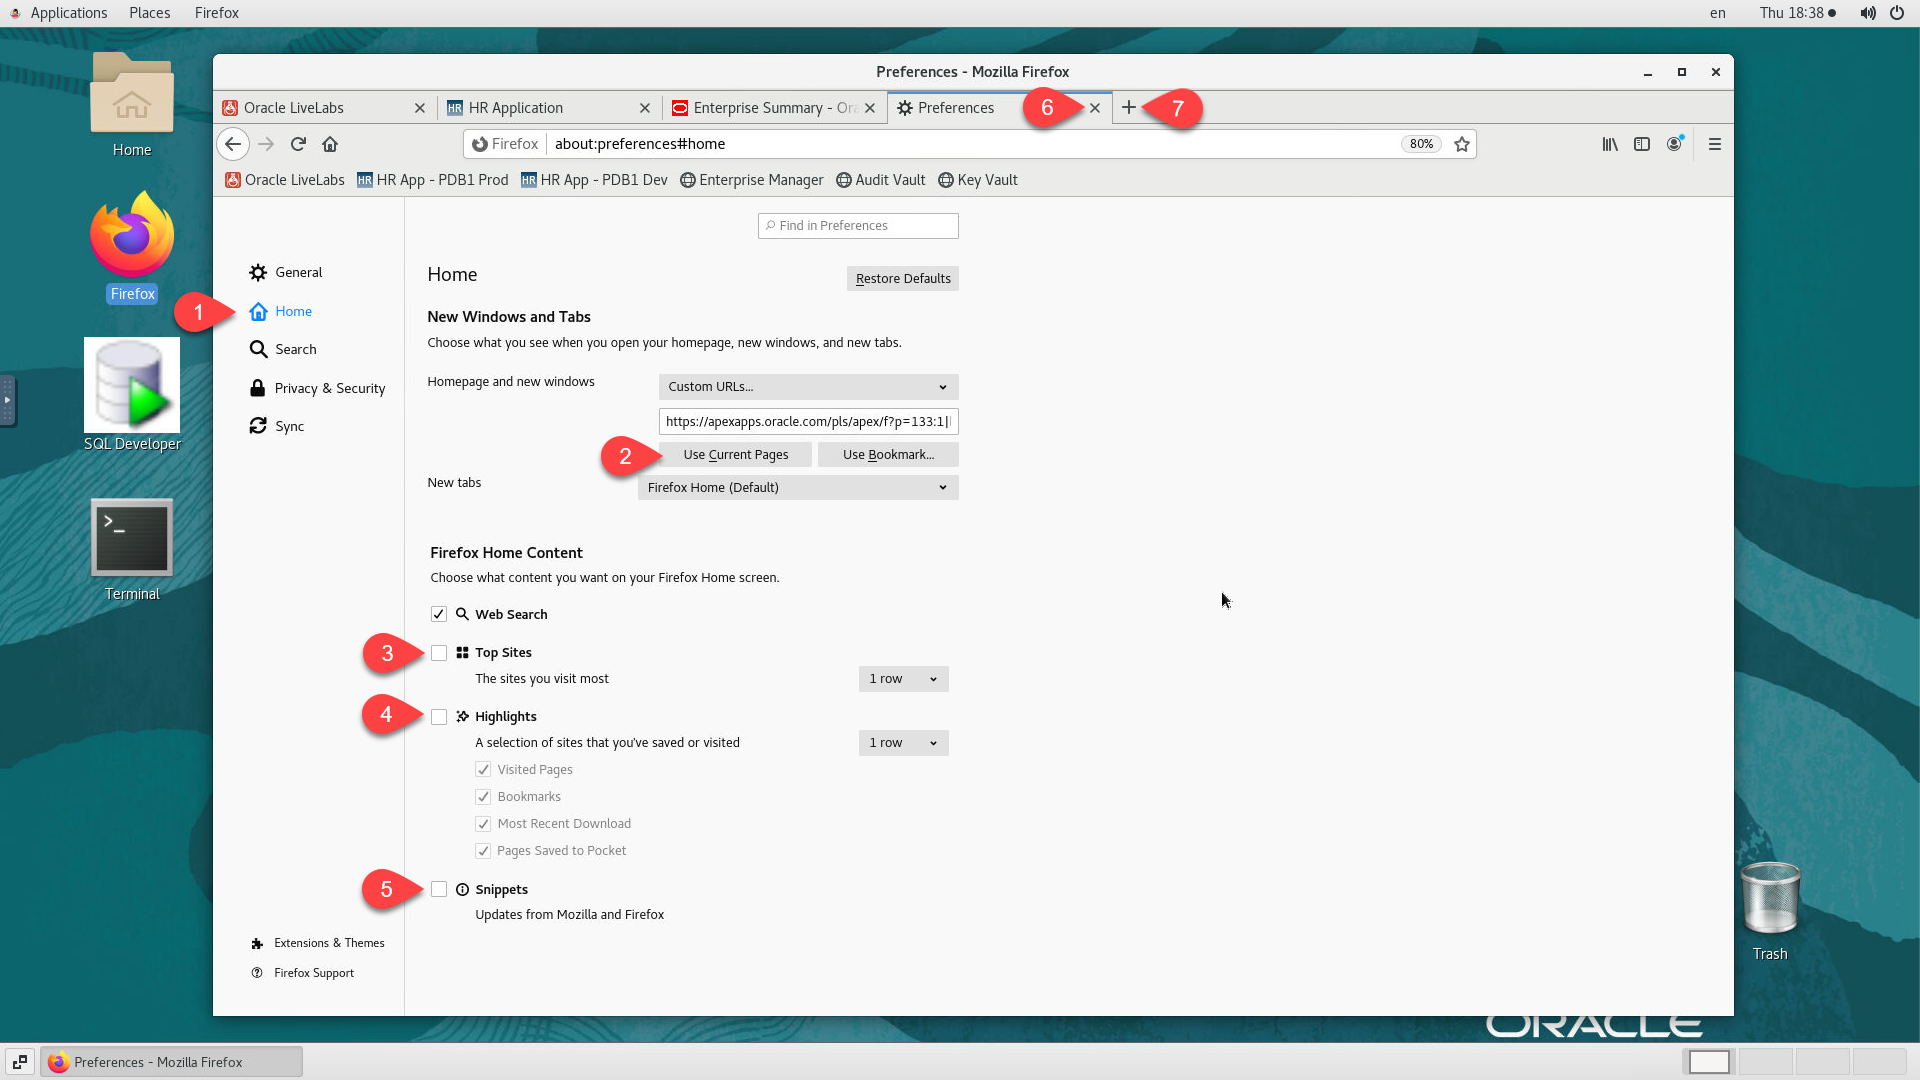
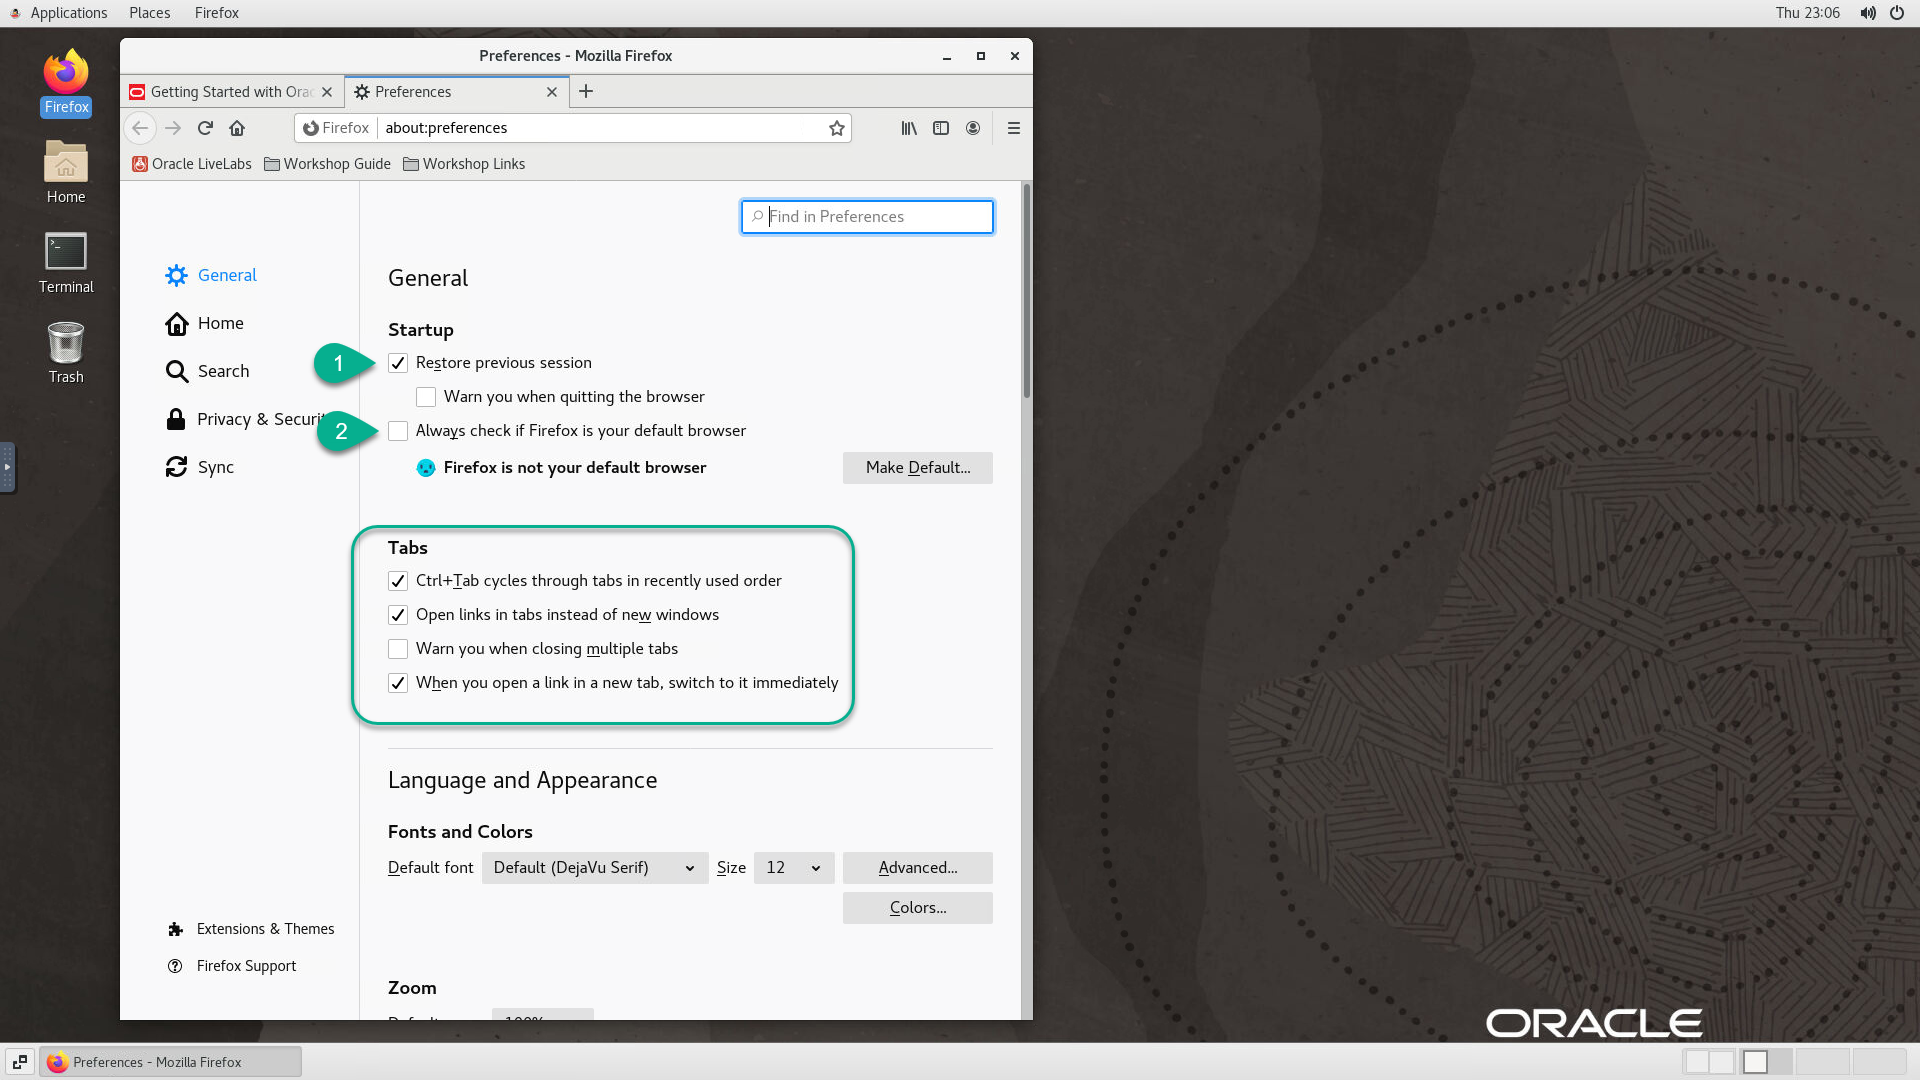
Update noVNC setup [Internal]

diff --git a/data-management-library/database/upgrade/19c/workshops/main/index.html b/data-management-library/database/upgrade/19c/workshops/main/index.html
@@ -1,0 +1,62 @@
+<!DOCTYPE html>
+<html lang="en">
+
+<head>
+    <meta charset="utf-8">
+    <meta http-equiv="X-UA-Compatible" content="IE=edge">
+    <meta name="viewport" content="width=device-width, initial-scale=1">
+    <meta name="description" content="Oracle LiveLabs gives you access to Oracle's products to run a wide variety of labs and workshops; allowing you to experience our best technology, live!">
+    <title>Oracle LiveLabs</title>
+
+    <script src="https://oracle.github.io/learning-library/common/redwood-hol/js/jquery-1.11.0.min.js"></script>
+    <script src="https://oracle.github.io/learning-library/common/redwood-hol/js/jquery-ui-1.10.4.custom.js"></script>
+    <script src="https://oracle.github.io/learning-library/common/redwood-hol/js/main.min.js"></script>
+
+    <link rel="stylesheet" href="https://oracle.github.io/learning-library/common/redwood-hol/css/style.min.css" />
+    <link rel="shortcut icon" href="https://oracle.github.io/learning-library/common/redwood-hol/img/favicon.ico" />
+</head>
+
+<body>
+    <header class="hol-Header" role="banner">
+        <div class="hol-Header-wrap">
+            <div class="hol-Header-logo"><span>Oracle LiveLabs</span></div>
+            <a href="https://bit.ly/golivelabs" target="_blank" id="livelabs" title="Oracle LiveLabs"></a>
+            <div class="hol-Header-actions">
+                <button id="openNav" class="hol-Header-button hol-Header-button--menu rightNav" aria-label="Open Menu"
+                    title="Open Menu">
+                    <span class="hol-Header-toggleIcon"></span>
+                </button>
+            </div>
+        </div>
+    </header>
+
+    <div id="container">
+        <div id="leftNav">
+            <div id="toc"></div>
+        </div>
+        <div id="contentBox">
+            <main class="hol-Content" id="module-content"></main>
+        </div>
+    </div>
+
+      <footer class="hol-Footer">
+        <a class="hol-Footer-topLink" href="#top">Return to Top</a>
+        <div id="footer-banner"><div class="footer-row">
+          <div class="footer-content"><ul class="footer-links">
+              <li><a href="https://docs.oracle.com/pls/topic/lookup?ctx=en/legal&id=cpyr" target="_blank" aria-label="Open a new window to Oracle legal notices" data-lbl="copyright">© Oracle</a></li>
+              <li><a href="https://www.oracle.com/corporate/index.html" target="_blank" aria-label="Open a new window to learn more about oracle" data-lbl="about-oracle">About Oracle</a></li>
+              <li><a href="https://www.oracle.com/corporate/contact/" target="_blank" aria-label="Open a new window to contact oracle" data-lbl="contact-us">Contact Us</a></li>
+              <li class="footer-links-break"></li>
+              <li><a href="https://docs.oracle.com/en/browseall.html" target="_blank" aria-label="Open a new window to products a-z" data-lbl="products-a-z">Products A-Z</a></li>
+              <li><a href="https://www.oracle.com/legal/privacy/" target="_blank" aria-label="Open a new window to read more about Oracle terms of use and privacy" data-lbl="terms-of-use-and-privacy">Terms of Use & Privacy</a></li>
+              <li><a href="https://www.oracle.com/legal/privacy/privacy-policy.html#11" target="_blank" aria-label="Open a new window to read more about managing Oracle cookie preferences" data-lbl="cookie-preferences">Cookie Preferences</a></li>
+              <li><a href="https://www.oracle.com/legal/privacy/marketing-cloud-data-cloud-privacy-policy.html#adchoices" target="_blank" aria-label="Open a new window to ad choices" data-lbl="ad-choices">Ad Choices</a></li>
+              <li class="footer-links-break"></li><li class="last"><a href="https://docs.oracle.com/pls/topic/lookup?ctx=en/legal&id=cpyr" target="_blank" aria-label="Open a new window to Oracle legal notices" data-lbl="copyright">© Oracle</a></li>
+            </ul>
+          </div>
+        </div>
+      </div>
+    </footer>
+</body>
+
+</html>

diff --git a/sample-livelabs-templates/create-labs/labs/6-labs-setup-graphical-remote-desktop/6-labs-setup-graphical-remote-desktop.md b/sample-livelabs-templates/create-labs/labs/6-labs-setup-graphical-remote-desktop/6-labs-setup-graphical-remote-desktop.md
@@ -1,8 +1,8 @@
 # Setup Graphical Remote Desktop
 
 ## Introduction
-This lab will show you how to deploy and configure noVNC Graphical Remote Desktop on an Oracle Enterprise Linux (OEL) instance prior
-to capturing .
+This lab shows you how to deploy and configure noVNC Graphical Remote Desktop on an Oracle Enterprise Linux (OEL) instance prior
+to capturing the custom image.
 
 ### Objectives
 - Deploy NoVNC Remote Desktop
@@ -105,7 +105,7 @@ This lab assumes you have:
     echo "Updating VNC Service ..."
     cp /lib/systemd/system/vncserver@.service /etc/systemd/system/vncserver_\${appuser}@:1.service
     sed -i "s/<USER>/\${appuser}/g" /etc/systemd/system/vncserver_\${appuser}@:1.service
-    sed -i "s/After=syslog.target network.target/After=syslog.target network.target resetvncpwd.service/g" /etc/systemd/system/vncserver_\${appuser}@:1.service
+    sed -i "s/After=syslog.target network.target/After=syslog.target network.target resetvncpwd.service cloud-final.service/g" /etc/systemd/system/vncserver_\${appuser}@:1.service
 
     firewall-cmd --zone=public --permanent --add-service=vnc-server
     firewall-cmd --zone=public --permanent --add-port=5901/tcp
@@ -184,9 +184,9 @@ This lab assumes you have:
     echo ""
     echo "#================================================="
     echo "#"
-    echo "# http://`curl -s ident.me`:6080/index.html?resize=remote"      
+    echo "# http://`curl -s ident.me`:6080/vnc.html?resize=remote"      
     echo "# or"
-    echo "# http://`curl -s ident.me`:6080/index.html?password=LiveLabs.Rocks_99&resize=remote&autoconnect=true"      
+    echo "# http://`curl -s ident.me`:6080/vnc.html?password=LiveLabs.Rocks_99&resize=scale&quality=9&autoconnect=true"      
     echo "#================================================="
     echo ""
     EOF
@@ -289,37 +289,63 @@ LiveLabs compute instance are password-less and only accessible via SSH keys. As
 1. Launch your browser to the following URL
 
     ```
-    <copy>http://[your instance public-ip address]:6080/index.html?resize=remote</copy>
+    <copy>http://[your instance public-ip address]:6080/vnc.html?password=LiveLabs.Rocks_99&resize=scale&quality=9&autoconnect=true</copy>
     ```
 
-    ![](./images/novnc-login-1.png " ")
-
-
-2. Copy/Paste the Password below to login
+2. Follow steps in the screenshot below and run command provided below to resize desktop icons
 
     ```
-    <copy>LiveLabs.Rocks_99</copy>
+    <copy>
+    gsettings set org.gnome.nautilus.icon-view default-zoom-level small
+    </copy>
     ```
 
-    ![](./images/novnc-login-2.png " ")
+    ![](./images/novnc-resize-desktop-icons-1.png " ")
+    ![](./images/novnc-resize-desktop-icons-2.png " ")
 
-3. Navigate to "*Applications >> System Tools >> Settings*"
+3. From the same Terminal window, run the following command to open *Startup Programs* configuration
+
+    ```
+    <copy>
+    gsettings set org.gnome.nautilus.icon-view default-zoom-level small
+    </copy>
+    ```
+
+    ![](./images/novnc-startup-prog-1.png " ")
+
+4. Fill in the details as shown below and click *Add* to add *Firefox* to the list of applications to be started automatically on *VNC* Startup
+
+    ```
+    Name: <copy>Firefox Browser</copy>
+    ```
+
+    ```
+    Command: <copy>firefox</copy>
+    ```
+
+    ```
+    Comment: <copy>Launch Firefox on VNC Startup</copy>
+    ```
+
+    ![](./images/novnc-startup-prog-2.png " ")
+
+5. Navigate to "*Applications >> System Tools >> Settings*"
 
     ![](./images/system-settings.png " ")
 
-4. Click on "*Privacy*" and set **Screen Lock** to *Off*
+6. Click on "*Privacy*" and set **Screen Lock** to *Off*
 
     ![](./images/privacy-screen-lock.png " ")
 
-5. Click on "*Power*" and set **Blank Screen** under Power Saving to *Never*
+7. Click on "*Power*" and set **Blank Screen** under Power Saving to *Never*
 
     ![](./images/power-saving-off.png " ")
 
-6. Click on "*Notifications*" and set **Notifications Popups** and **Lock Screen Notifications** to *Off*
+8. Click on "*Notifications*" and set **Notifications Popups** and **Lock Screen Notifications** to *Off*
 
     ![](./images/desktop-notifications-off.png " ")
 
-7. Scroll-down, Click on "*Devices >> Resolution*" and select **1920 x 1080 (16:9)**
+9. Scroll-down, Click on "*Devices >> Resolution*" and select **1920 x 1080 (16:9)**
 
     ![](./images/desktop-display-1.png " ")
     ![](./images/desktop-display-2.png " ")
@@ -375,45 +401,100 @@ Provide convenient access to LiveLabs and any relevant URL to your workshop by a
 
     ![](./images/add-firefox-bookmarks-04.png " ")
 
-5. Repeat steps [2-4] above to add any other relevant URL needed in your workshop. In the example below borrowed from *DB Security* workshop, we added the following extra bookmarks
-    - HR App PDB1 Prod|Dev
-    - Enterprise Manager
-    - Audit Vault
-    - Key Vault
+5. Right-Click in the *Bookmarks Toolbar* area and Click *New Folder*
 
-6. Click on the *Hamburger-Menu* from the upper-right corner and select *Preferences*
+    ![](./images/add-firefox-bookmarks-08.png " ")
+
+7. Provide the following two inputs and click *Add* to create the folder *Workshop Guides*
+
+    ```
+    Name: <copy>Workshop Guides</copy>
+    ```
+
+    ![](./images/add-firefox-bookmarks-09.png " ")
+
+8. Repeat to create the folder *Workshop Links*
+
+    ```
+    Name: <copy>Workshop Links</copy>
+    ```
+
+    ![](./images/add-firefox-bookmarks-10.png " ")
+
+9. Right-Click on *Workshop Guides* and Select *New Bookmark*
+
+
+    ![](./images/add-firefox-bookmarks-11.png " ")
+
+10. Provide details to add a bookmark for your workshop(s). For most workshops this folder will content a single item. If your image is used by multiple workshops then repeat this action to add bookmarks for all relevant listings accordingly.
+
+    ```
+    Name: <copy><Your Workshop Name as recorded in WMS></copy>
+    ```
+
+    ```
+    Location: <copy><Your Workshop Github URL ending with ./workshop/main></copy>
+    ```
+
+    *Note*: If you are still developing your workshop this URL may not yet be available. In that case, skip adding bookmarks to this folder and return when it's (they are) available.
+
+    The example below is borrowed from the *Upgrade to Oracle Database 19c* Workshop.
+
+    ![](./images/add-firefox-bookmarks-12.png " ")
+    ![](./images/add-firefox-bookmarks-13.png " ")
+
+11. Repeat [9-10] above to add bookmarks to the *Workshop Guides* folder. The example below was borrowed from the *Database Security* portfolio of workshops and shows multiple entries in the two bookmark folders.
+
+    ![](./images/add-firefox-bookmarks-14.png " ")
+    ![](./images/add-firefox-bookmarks-15.png " ")
+
+12. Click on the *Hamburger-Menu* from the upper-right corner and select *Preferences*
 
     ![](./images/add-firefox-bookmarks-05.png " ")
 
-7. With the tabs you would like preloaded on browser startup already opened and starting with LiveLabs, Click on *Home* and *Use Current Pages*, then do the following:
-    - Uncheck *Top Sites*, *Highlights*, and *Snippets*
-    - Click on *X* next to *Preferences* tab to close it
-    - Click on *+* to open a new tab and confirm that you are getting a clean new tab free of all elements such as *Top Sites* and *Highlights*
+13. Check *Restore Previous Session* and Make other selections as shown below
 
     ![](./images/add-firefox-bookmarks-06.png " ")
 
+14. Click on *Home* and make selections as shown below.
+
+
     ![](./images/add-firefox-bookmarks-07.png " ")
 
-## **STEP 5**: Enable Copy/Paste from Local to Remote Desktop (noVNC clipboard)
-Perform the tasks below and add them to any workshop guide to instruct users on how to enable clipboard on the remote desktop for local-to-remote copy/paste.
+    - Uncheck *Top Sites*, *Highlights*, and *Snippets*
 
-During the execution of your labs you may need to copy text from your local PC/Mac to the remote desktop, such as commands from the lab guide. While such direct copy/paste isn't supported as you will realize, you may proceed as indicated below to enable an alternative local-to-remote clipboard with Input Text Field.
+15. Expand *Bookmark Toolbar*, Select an item from the *Workshop Guides* Folder and click on *X* to close *Preferences*
 
-1. From your remote desktop session, click on the small gray tab on the middle-left side of your screen to open the control bar
+    ![](./images/add-firefox-bookmarks-16.png " ")
 
-    ![](./images/novnc-clipboard-1.png " ")
+16. Click on *+* to open a new tab and confirm that you are getting a clean new tab free of all elements such as *Top Sites* and *Highlights*
 
-2. Select the *clipboard* icon, Copy the sample text below and paste into the clipboard widget, then finally open up the desired application and paste accordingly using *mouse controls*
+    ![](./images/add-firefox-bookmarks-18.png " ")
+
+17. Open a second *Firefox* window and load it with a bookmark from the *Workshop Links* folder.
+
+    ![](./images/add-firefox-bookmarks-17.png " ")
+
+    Alternatively, if there is no relevant link for a second Firefox window or you prefer to use that space for a relevant application. e.g. SQL Developer, JDeveloper, etc., Right click on the respective icon to obtain the details needed to add the entry to the *Startup Programs* configuration in order to enable auto-start on VNC startup just like you did for *Firefox* in *STEP [2]*
+
+    ![](./images/add-firefox-bookmarks-19.png " ")
+
+18. From you external SSH Terminal (e.g. PuTTy, MobaXterm, Mac Terminal, Cygwin, etc.), stop VNC Service to preserve the layout before proceeding with custom image creation
 
     ```
-    <copy>echo "This text was copied from my local computer"</copy>
+    <copy>
+    systemctl stop vncserver_${appuser}@:1.service
+    systemctl status vncserver_${appuser}@:1.service
+    </copy>
     ```
 
-    ![](./images/novnc-clipboard-2.png " ")
+    ![](./images/novnc-stop-vncserver.png " ")
 
-    *Note:* Please make sure you initialize your clipboard with steps *[1-3]* shown above before opening the target application in which you intend to paste the text. Otherwise will find the *paste* function grayed out in step 4 when attempting to paste.
+You may now [proceed to the next lab](#next).
 
-## **STEP 6**: Enable VNC Password Reset for each instance provisioned from the image
+## Appendix 1: Enable VNC Password Reset for each instance provisioned from the image
+Actions provided in this Appendix are not meant to be performed on the image. They are rather intended as guidance for workshop developers writing terraform scripts to provision instances from an image configured as prescribed in this guide.
+
 For added security, update your Terraform/ORM stack with the tasks below to enable VNC password reset for each VM provisioned from the image.
 
 1. Add provider *random* to *main.tf* or and any other *TF* file in your configuration if you not using *main.tf*
@@ -466,7 +547,7 @@ For added security, update your Terraform/ORM stack with the tasks below to enab
         oci_core_instance.[instance-name].public_ip,
         ":6080/index.html?password=",
         random_string.vncpwd.result,
-        "&resize=remote&autoconnect=true"
+        "&resize=scale&autoconnect=true&quality=9&reconnect=true"
       )
     }
     </copy>
@@ -515,9 +596,8 @@ For added security, update your Terraform/ORM stack with the tasks below to enab
 
     **Note:** Your source image instance is now configured to generate a random VNC password for every instance created from it, provided that the provisioning requests include the needed metadata storing the random string.
 
-You may now [proceed to the next lab](#next).
 
 ## Acknowledgements
 * **Author** - Rene Fontcha, LiveLabs Platform Lead, NA Technology, September 2020
 * **Contributors** - Robert Pastijn
-* **Last Updated By/Date** - Rene Fontcha, LiveLabs Platform Lead, NA Technology, May 2021
+* **Last Updated By/Date** - Rene Fontcha, LiveLabs Platform Lead, NA Technology, June 2021
